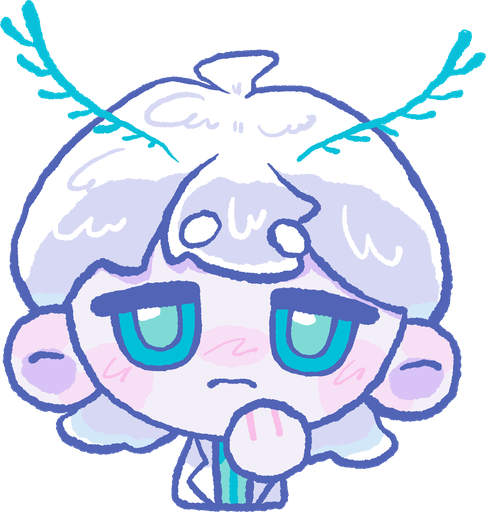
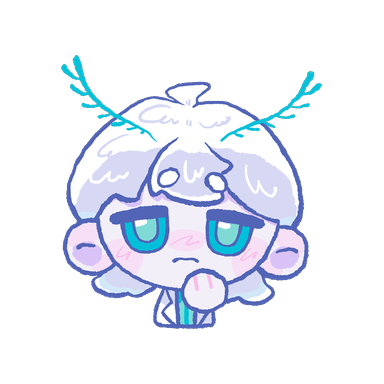
Grand prize = one of each prize; odds tuned; mascots head-normalized
- Grand Prize now takes ONE of each of the four prizes (server + local mode)
- Weights: third 41.8→46.3, first 8→3.5 (sum stays 100)
- All six mascot stickers re-exported with equal head widths (230px on
  384px canvases) so they render at identical scale in the reels

diff --git a/js/game.js b/js/game.js
@@ -122,8 +122,8 @@
                 reward: n => `Pick <b>${n}</b> regular prizes` },
     doubleHit:{ key: 'doubleHit',chip: 'SPECIAL PAIR', title: 'Double BRIDGE!',       normal: 2, special: 1, cls: 'td', winKind: 'doubleHit',
                 reward: n => `Pick <b>2</b> regular prizes <b>+ 1 special prize</b>` },
-    grand:    { key: 'grand',    chip: 'GRAND PRIZE',  title: 'TAKE THEM ALL!',       normal: 0, special: 0, cls: 'tg', winKind: 'grand',
-                reward: () => `You take <b>everything</b> that's left!` },
+    grand:    { key: 'grand',    chip: 'GRAND PRIZE',  title: 'ONE OF EACH!',         normal: 0, special: 0, cls: 'tg', winKind: 'grand',
+                reward: () => `Take <b>one of each</b> prize!` },
   };
   const tier = (k) => TIERS[k];
 
@@ -265,7 +265,7 @@
       { cls: 't2', chip: 'SECOND PRIZE', icons: [syms.anxious, syms.anxious, syms.confused],       cond: 'A PAIR',      pick: 'PICK 2' },
       { cls: 't1', chip: 'FIRST PRIZE',  icons: [syms.greeting, syms.greeting, syms.greeting],     cond: '3 OF A KIND', pick: 'PICK 3' },
       { cls: 'td', chip: 'SPECIAL PAIR', icons: [S, S, syms.back],                                  cond: '2 EMBLEMS',   pick: '2 + 1 ⭐' },
-      { cls: 'tg', chip: 'GRAND PRIZE',  icons: [S, S, S],                                          cond: '3 EMBLEMS',   pick: 'TAKE ALL!' },
+      { cls: 'tg', chip: 'GRAND PRIZE',  icons: [S, S, S],                                          cond: '3 EMBLEMS',   pick: '1 OF EACH' },
     ];
     const grid = $('rulesGrid');
     grid.innerHTML = '';
@@ -439,8 +439,8 @@
     });
     $('grandClaim').onclick = async () => {
       if (SERVER_MODE === false) {
-        const lines = C.prizes.filter(p => inventory[p.id] > 0).map(p => ({ p, qty: inventory[p.id] }));
-        for (const p of C.prizes) inventory[p.id] = 0;
+        const lines = C.prizes.filter(p => inventory[p.id] > 0).map(p => ({ p, qty: 1 }));
+        for (const l of lines) inventory[l.p.id] -= 1;
         localLogEntry('GRAND PRIZE', lines);
         localPersist(); renderPrizeGrid();
         $('grandOverlay').classList.remove('show');
@@ -494,7 +494,7 @@
           // all three for a triple; all-different wins flash nothing.
           if (t.key !== 'third') LB_SLOT.flashReels(glowIdx);
           if (t.key === 'grand') {
-            setStatus('🌟 <b>GRAND PRIZE!</b> Take everything!');
+            setStatus('🌟 <b>GRAND PRIZE!</b> One of each prize!');
           } else {
             setStatus(`🎉 ${t.chip} — ${t.reward(t.normal).replace(/<[^>]+>/g, '')}`);
             LB_AUDIO.win(t.winKind);

diff --git a/index.html b/index.html
@@ -10,7 +10,7 @@
   <link rel="preconnect" href="https://fonts.gstatic.com" crossorigin />
   <link href="https://fonts.googleapis.com/css2?family=Space+Grotesk:wght@400;500;600;700&display=swap" rel="stylesheet" />
   <link rel="stylesheet" href="css/tokens.css?v=2" />
-  <link rel="stylesheet" href="css/main.css?v=4" />
+  <link rel="stylesheet" href="css/main.css?v=5" />
 </head>
 <body>
 
@@ -203,10 +203,10 @@
     <div style="min-height:100%;display:flex;flex-direction:column;align-items:center;justify-content:center">
       <img class="emblem" src="assets/symbols/special.png" alt="BRIDGE emblem" />
       <div><span class="chip">GRAND PRIZE · 特等奖</span></div>
-      <h2>TAKE THEM ALL!</h2>
-      <p class="sub">Three BRIDGE emblems — you've won <b style="color:#ffd98a">every single prize</b> left on the table.</p>
+      <h2>ONE OF EACH!</h2>
+      <p class="sub">Three BRIDGE emblems — you've won <b style="color:#ffd98a">one of every prize</b> on the table!</p>
       <div class="items" id="grandItems"></div>
-      <button class="btn btn-primary" id="grandClaim" type="button">CLAIM EVERYTHING</button>
+      <button class="btn btn-primary" id="grandClaim" type="button">CLAIM MY PRIZES</button>
     </div>
   </div>
 

diff --git a/js/lb-settings.js b/js/lb-settings.js
@@ -38,9 +38,9 @@ const LB_CONFIG = {
   weights: {
     grand:     1.2,
     doubleHit: 4.0,
-    first:     8.0,
+    first:     3.5,
     second:   45.0,
-    third:    41.8,
+    third:    46.3,
   },
 
   /* chance that a "third"/"second" outcome shows one emblem

diff --git a/README.md b/README.md
@@ -7,7 +7,7 @@ A showy arcade-style slot machine lucky-draw web app for the **iGEM 2026 CSU-Chi
 ## ✨ Features
 
 - **One-armed bandit lever** — a gold side-axis press lever (mount slab + straight rod + glossy red ball, faithful to the classic form) that swings down in a real arc
-- **Weighted outcomes, everyone wins** — three different / a pair / three of a kind / two BRIDGE emblems / three emblems (Grand Prize: take everything)
+- **Weighted outcomes, everyone wins** — three different / a pair / three of a kind / two BRIDGE emblems / three emblems (Grand Prize: one of each prize)
 - **Neon suspense** — winning frames blink casino-neon for ~2.4 s before the result dialog opens
 - **Shared inventory** — a Node backend owns the prize pool & claim log; every device playing the same link deducts from one pool (server-side atomic checks, no over-claiming)
 - **Staff tools** — 4-digit PIN-protected reset (server-verified), live claim log, per-prize stock display
@@ -52,7 +52,7 @@ tools/                asset-processing scripts (trim/compress artwork)
 | a matching pair | pick **2** regular prizes |
 | 3 of a kind | pick **3** regular prizes |
 | 2 BRIDGE emblems | 2 regular **+ 1 special** (coaster) |
-| 3 BRIDGE emblems | **take everything** 🎉 |
+| 3 BRIDGE emblems | **one of each prize** 🎉 |
 
 A single BRIDGE emblem counts as a normal symbol.
 
